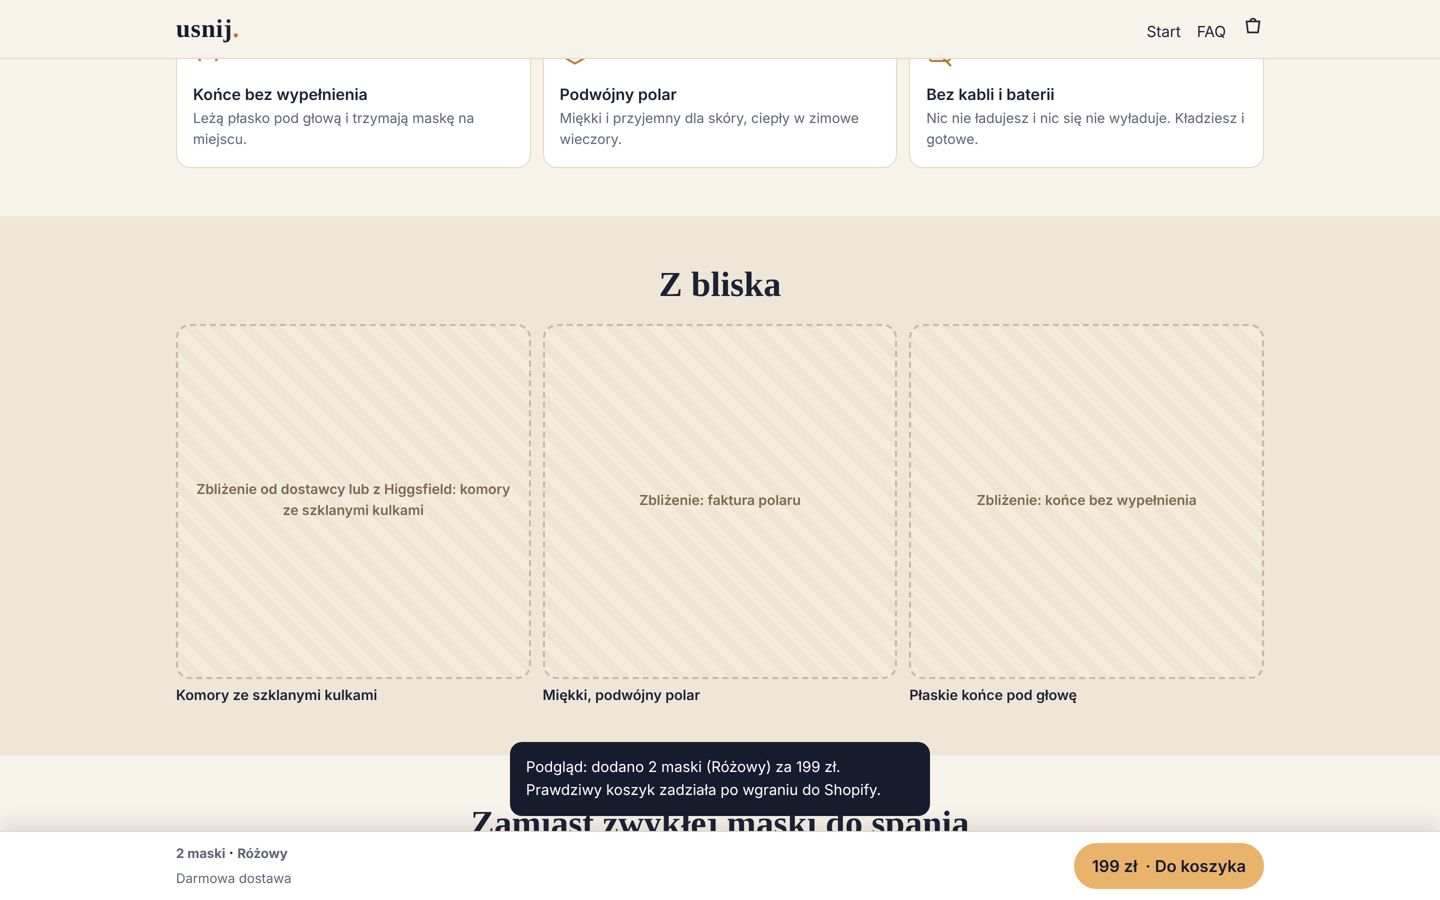
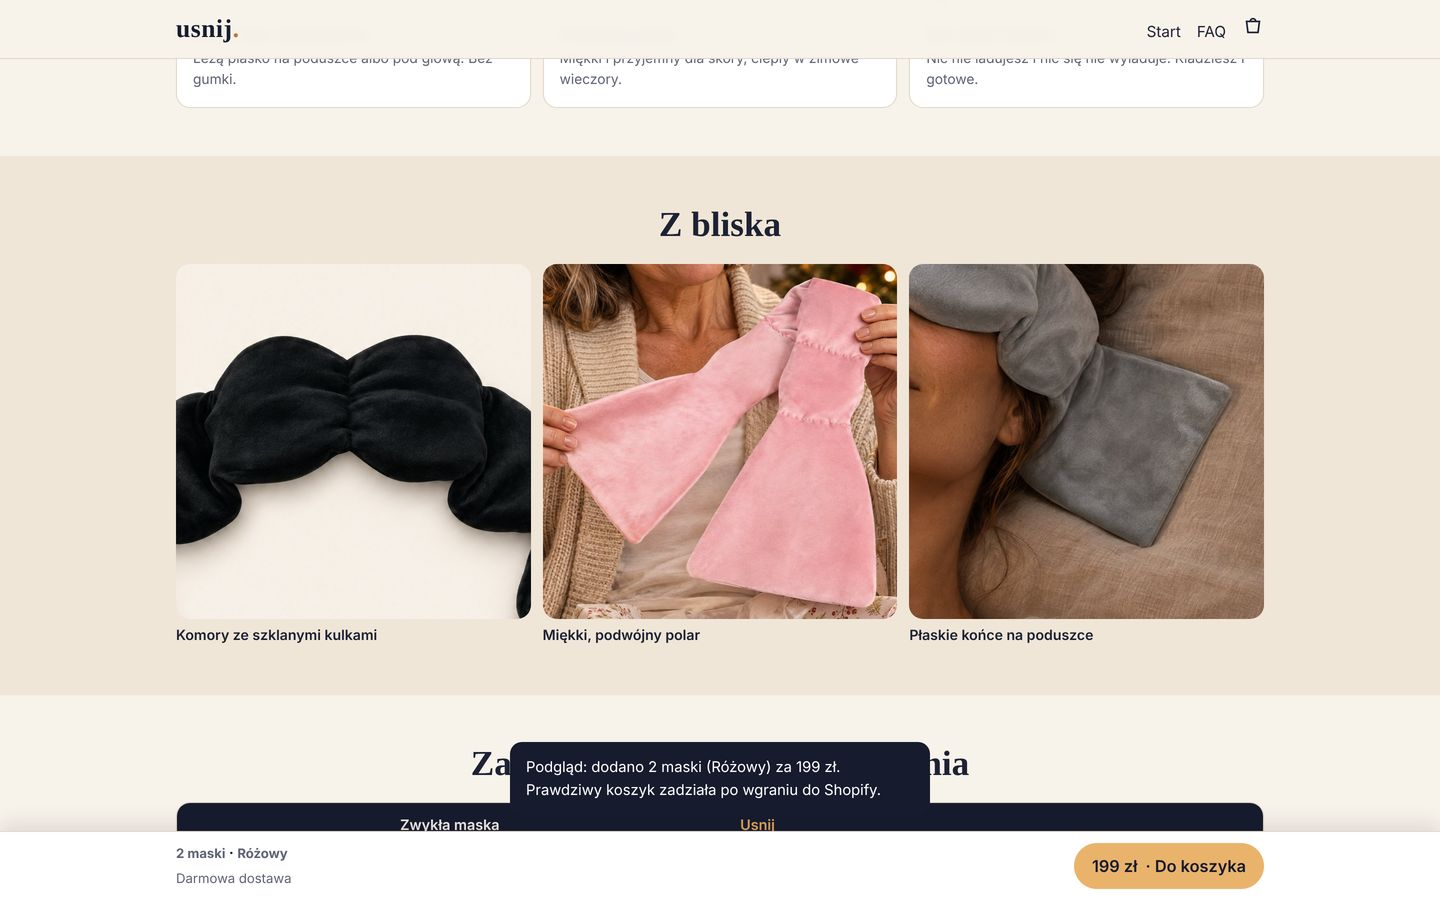
Podgląd Usnij ze zdjęciami dostawcy i z Higgsfield, poprawione marginesy
Claude-Session: https://claude.ai/code/session_015pvefb4PoZBYha924Rvz6N

diff --git a/sklep/podglad/produkt.html b/sklep/podglad/produkt.html
@@ -18,13 +18,13 @@
 <!-- 1. Galeria i zakup -->
 <div class="wrap pdp">
   <div>
-    <div class="gal-main"><img src="img/dostawca-tymczasowe.jpg" alt="Obciążeniowa maska na oczy, zdjęcie od dostawcy"><span class="tag">Zdjęcie od dostawcy, tymczasowe (zielony, nie sprzedajemy tego koloru)</span></div>
+    <div class="gal-main"><img data-color-img src="img/packshot-szara.jpg" alt="Obciążeniowa maska na oczy Usnij"></div>
     <div class="thumbs">
-      <button class="thumb" aria-current="true"><img src="img/dostawca-tymczasowe.jpg" alt=""><template><img src="img/dostawca-tymczasowe.jpg" alt="Maska od dostawcy"><span class="tag">Zdjęcie od dostawcy, tymczasowe</span></template></button>
-      <button class="thumb">Czarny<template><div class="ph">Zdjęcie od dostawcy: kolor czarny</div></template></button>
-      <button class="thumb">Szary<template><div class="ph">Zdjęcie od dostawcy: kolor szary</div></template></button>
-      <button class="thumb">Różowy<template><div class="ph">Zdjęcie od dostawcy: kolor różowy</div></template></button>
-      <button class="thumb">W użyciu<template><div class="ph">Zdjęcie z Higgsfield: maska na oczach w łóżku, produkt 1:1</div></template></button>
+      <button class="thumb" data-kolor-thumb="Czarny"><img src="img/packshot-czarna.jpg" alt="Kolor czarny"><template><img src="img/packshot-czarna.jpg" alt="Maska Usnij, kolor czarny"></template></button>
+      <button class="thumb" data-kolor-thumb="Szary" aria-current="true"><img src="img/packshot-szara.jpg" alt="Kolor szary"><template><img src="img/packshot-szara.jpg" alt="Maska Usnij, kolor szary"></template></button>
+      <button class="thumb" data-kolor-thumb="Różowy"><img src="img/packshot-rozowa.jpg" alt="Kolor różowy"><template><img src="img/packshot-rozowa.jpg" alt="Maska Usnij, kolor różowy"></template></button>
+      <button class="thumb"><img src="img/hero-szara-lozko.jpg" alt="Maska w użyciu" loading="lazy"><template><img src="img/hero-szara-lozko.jpg" alt="Szara maska Usnij na oczach w łóżku"></template></button>
+      <button class="thumb"><img src="img/rozowa-lozko.jpg" alt="Różowa maska w użyciu" loading="lazy"><template><img src="img/rozowa-lozko.jpg" alt="Różowa maska Usnij na oczach w łóżku"></template></button>
     </div>
   </div>
 
@@ -58,7 +58,7 @@
 
     <!-- 2. Zakładki -->
     <div style="margin-top:18px">
-      <details open><summary>Opis</summary><div class="in"><p>Usnij to obciążeniowa maska na oczy wypełniona szklanymi kulkami. Kulki są zamknięte w 4 komorach, więc ciężar rozkłada się równo na oczach i czole. Końce bez wypełnienia wsuwasz pod głowę i maska zostaje na miejscu bez gumki.</p><p>Miękki, podwójny polar, przyjemny dla skóry. Pasuje do snu, drzemki i podróży. To nie jest wyrób medyczny.</p></div></details>
+      <details open><summary>Opis</summary><div class="in"><p>Usnij to obciążeniowa maska na oczy wypełniona szklanymi kulkami. Kulki są zamknięte w 4 komorach, więc ciężar rozkłada się równo na oczach i czole. Końce bez wypełnienia leżą płasko na poduszce albo pod głową i pomagają utrzymać maskę na miejscu, bez gumki.</p><p>Miękki, podwójny polar, przyjemny dla skóry. Pasuje do snu, drzemki i podróży. To nie jest wyrób medyczny.</p></div></details>
       <details><summary>Co jest w zestawie</summary><div class="in"><ul><li>1 maska: 1 × obciążeniowa maska na oczy</li><li>2 maski: 2 × obciążeniowa maska na oczy (w wybranym kolorze)</li></ul></div></details>
       <details><summary>Wymiary</summary><div class="in"><ul><li>Waga maski: 240 g (wg dostawcy)</li><li>Waga paczki: 362 g (wg dostawcy)</li><li>Długość i szerokość: [do potwierdzenia u dostawcy]</li><li>Materiał: polar, wypełnienie: szklane kulki</li></ul></div></details>
       <details><summary>Dostawa i zwroty</summary><div class="in"><ul><li>Dostawa 8–18 dni: 1–3 dni przygotowania + 7–15 dni transportu, z numerem śledzenia</li><li>Darmowa od 199 zł, poniżej 12,99 zł</li><li>Cena końcowa, bez cła i dopłat przy odbiorze</li><li>30 dni na zwrot bez podawania przyczyny</li><li>Paczka nie dotarła w 25 dni od nadania: nowa albo zwrot pieniędzy</li></ul></div></details>
@@ -68,13 +68,13 @@
 
 <!-- 3. Najważniejsza korzyść -->
 <section class="dark"><div class="wrap benefit">
-  <div class="ph sq">Miejsce na zdjęcie lub krótkie wideo z Higgsfield: maska na oczach, ciemna sypialnia, ciepłe światło lampki (produkt 1:1)</div>
+  <img src="img/rozowa-lozko.jpg" alt="Różowa maska Usnij na oczach, ciepłe światło lampki w sypialni" style="border-radius:14px" loading="lazy">
   <div>
     <h2>Ciężar, który uspokaja, zamiast uciskać</h2>
     <ul class="ticks">
       <li><span><b>Ciemność.</b> Maska przykrywa oczy i czoło, więc światło z lampki czy ekranu nie przeszkadza.</span></li>
       <li><span><b>Równy, delikatny ciężar.</b> Szklane kulki w 4 komorach leżą na powiekach płasko, bez jednego punktu nacisku.</span></li>
-      <li><span><b>Zostaje na miejscu.</b> Końce bez wypełnienia wsuwasz pod głowę. Bez gumki, która ciągnie za włosy.</span></li>
+      <li><span><b>Bez gumki.</b> Płaskie końce bez wypełnienia leżą na poduszce albo pod głową. Nic nie ciągnie za włosy.</span></li>
     </ul>
   </div>
 </div></section>
@@ -86,7 +86,7 @@
     <div class="feat"><svg viewBox="0 0 24 24" fill="none" stroke="currentColor" stroke-width="1.6"><circle cx="7" cy="9" r="2.2"/><circle cx="12" cy="7" r="2.2"/><circle cx="17" cy="9" r="2.2"/><circle cx="9.5" cy="14" r="2.2"/><circle cx="14.5" cy="14" r="2.2"/></svg><h3>Szklane kulki</h3><p>Wypełnienie ze szklanych kulek daje równy, przyjemny ciężar.</p></div>
     <div class="feat"><svg viewBox="0 0 24 24" fill="none" stroke="currentColor" stroke-width="1.6"><rect x="2" y="8" width="20" height="8" rx="4"/><path d="M7 8v8M12 8v8M17 8v8"/></svg><h3>4 komory</h3><p>Kulki się nie przesypują w jeden róg. Ciężar zostaje tam, gdzie trzeba.</p></div>
     <div class="feat"><svg viewBox="0 0 24 24" fill="none" stroke="currentColor" stroke-width="1.6"><path d="M4 11c2-4.5 14-4.5 16 0v2c-2 3.5-14 3.5-16 0z"/><path d="M12 7v10"/></svg><h3>Oczy i czoło</h3><p>Maska przykrywa całą okolicę oczu i czoło, a nie tylko powieki.</p></div>
-    <div class="feat"><svg viewBox="0 0 24 24" fill="none" stroke="currentColor" stroke-width="1.6"><path d="M3 12h18"/><path d="M6 8l-3 4 3 4M18 8l3 4-3 4"/></svg><h3>Końce bez wypełnienia</h3><p>Leżą płasko pod głową i trzymają maskę na miejscu.</p></div>
+    <div class="feat"><svg viewBox="0 0 24 24" fill="none" stroke="currentColor" stroke-width="1.6"><path d="M3 12h18"/><path d="M6 8l-3 4 3 4M18 8l3 4-3 4"/></svg><h3>Końce bez wypełnienia</h3><p>Leżą płasko na poduszce albo pod głową. Bez gumki.</p></div>
     <div class="feat"><svg viewBox="0 0 24 24" fill="none" stroke="currentColor" stroke-width="1.6"><path d="M12 3l9 5-9 5-9-5z"/><path d="M3 13l9 5 9-5"/></svg><h3>Podwójny polar</h3><p>Miękki i przyjemny dla skóry, ciepły w zimowe wieczory.</p></div>
     <div class="feat"><svg viewBox="0 0 24 24" fill="none" stroke="currentColor" stroke-width="1.6"><rect x="3" y="8" width="16" height="8" rx="2"/><path d="M21 11v2"/><path d="M4 4l16 16"/></svg><h3>Bez kabli i baterii</h3><p>Nic nie ładujesz i nic się nie wyładuje. Kładziesz i gotowe.</p></div>
   </div>
@@ -96,9 +96,9 @@
 <section class="alt"><div class="wrap">
   <h2 class="center">Z bliska</h2>
   <div class="closeups">
-    <figure><div class="ph sq">Zbliżenie od dostawcy lub z Higgsfield: komory ze szklanymi kulkami</div><figcaption>Komory ze szklanymi kulkami</figcaption></figure>
-    <figure><div class="ph sq">Zbliżenie: faktura polaru</div><figcaption>Miękki, podwójny polar</figcaption></figure>
-    <figure><div class="ph sq">Zbliżenie: końce bez wypełnienia</div><figcaption>Płaskie końce pod głowę</figcaption></figure>
+    <figure><img src="img/zblizenie-komory.jpg" alt="Zbliżenie komór ze szklanymi kulkami" style="border-radius:14px;aspect-ratio:1/1;object-fit:cover" loading="lazy"><figcaption>Komory ze szklanymi kulkami</figcaption></figure>
+    <figure><img src="img/zblizenie-polar.jpg" alt="Zbliżenie miękkiego polaru maski" style="border-radius:14px;aspect-ratio:1/1;object-fit:cover" loading="lazy"><figcaption>Miękki, podwójny polar</figcaption></figure>
+    <figure><img src="img/zblizenie-konce.jpg" alt="Płaski koniec maski na poduszce" style="border-radius:14px;aspect-ratio:1/1;object-fit:cover" loading="lazy"><figcaption>Płaskie końce na poduszce</figcaption></figure>
   </div>
 </div></section>
 
@@ -110,13 +110,13 @@
     <tr><td>Wypełnienie</td><td>pianka lub sama tkanina</td><td>szklane kulki w 4 komorach</td></tr>
     <tr><td>Ciężar</td><td>kilkanaście gramów</td><td>240 g (wg dostawcy)</td></tr>
     <tr><td>Co przykrywa</td><td>same oczy</td><td>oczy i czoło</td></tr>
-    <tr><td>Mocowanie</td><td>gumka za głową</td><td>płaskie końce pod głowę</td></tr>
+    <tr><td>Mocowanie</td><td>gumka za głową</td><td>płaskie końce na poduszce, bez gumki</td></tr>
   </table>
 </div></section>
 
 <!-- 6b. Prezent -->
 <section class="dark"><div class="wrap gift">
-  <div class="ph sq">Miejsce na zdjęcie z Higgsfield: dwie maski Usnij w prezencie</div>
+  <img src="img/prezent-rozowa.jpg" alt="Różowa maska Usnij wyjęta z prezentu przy choince" style="border-radius:14px" loading="lazy">
   <div>
     <h2>Dwie maski: dla Ciebie i na prezent</h2>
     <p class="lead">Dla mamy, żony, przyjaciółki, dla każdego, kto mówi „znowu nie spałam”.</p>
@@ -131,7 +131,7 @@
   <h2 class="center">Pytania i odpowiedzi</h2>
   <details><summary>Ile trwa dostawa?</summary><div class="in">8 do 18 dni od zamówienia (1–3 dni przygotowania i 7–15 dni transportu), z numerem śledzenia. Jeśli paczka nie dotrze w ciągu 25 dni od nadania, wysyłamy nową albo oddajemy pieniądze.</div></details>
   <details><summary>Czy maska nie będzie za ciężka?</summary><div class="in">Ciężar rozkłada się na 4 komory, więc nie uciska jednego punktu. Jeśli Ci nie posłuży, masz 30 dni na zwrot.</div></details>
-  <details><summary>Czy zsunie się w nocy?</summary><div class="in">Końce bez wypełnienia wsuwasz pod głowę. Leżą płasko i trzymają maskę na miejscu.</div></details>
+  <details><summary>Czy zsunie się w nocy?</summary><div class="in">Końce bez wypełnienia leżą płasko na poduszce albo pod głową i pomagają utrzymać maskę na miejscu.</div></details>
   <details><summary>Czy to leczy bezsenność?</summary><div class="in">Nie, to nie jest wyrób medyczny. Daje ciemność i delikatny ciężar, co wielu osobom pomaga się wyciszyć.</div></details>
   <details><summary>Jak zapłacę?</summary><div class="in">BLIK, kartą albo szybkim przelewem. Cena jest końcowa, bez dopłat przy odbiorze.</div></details>
 </div></section>

diff --git a/sklep/podglad/index.html b/sklep/podglad/index.html
@@ -20,7 +20,7 @@
 <!-- 2. Hero -->
 <section class="hero"><div class="wrap">
   <div class="hero-media">
-    <div class="ph" style="aspect-ratio:auto;height:100%;border-radius:0;border:0">Miejsce na zdjęcie lub zapętlone wideo z Higgsfield: kobieta w sypialni przy lampce, maska Usnij na oczach (produkt 1:1 ze zdjęć dostawcy)</div>
+    <img src="img/hero-szara-lozko.jpg" alt="Kobieta odpoczywa w łóżku z szarą obciążeniową maską Usnij na oczach, ciepłe światło lampki" fetchpriority="high">
   </div>
   <div>
     <p class="small" style="color:#e2a355;font-weight:700;letter-spacing:.5px;text-transform:uppercase;margin-bottom:.6em">Obciążeniowa maska na oczy</p>
@@ -43,10 +43,10 @@
 <section><div class="wrap">
   <h2 class="center">Maska Usnij</h2>
   <div class="pcard">
-    <a class="media" href="produkt.html"><img src="img/dostawca-tymczasowe.jpg" alt="Obciążeniowa maska na oczy ze szklanymi kulkami, zdjęcie od dostawcy"><span class="tag">Zdjęcie od dostawcy, tymczasowe (kolor zielony). Docelowo zdjęcia w kolorach: czarny, szary, różowy</span></a>
+    <a class="media" href="produkt.html"><img data-color-img src="img/packshot-szara.jpg" alt="Obciążeniowa maska na oczy Usnij"></a>
     <div>
       <h3 style="font-size:1.35rem">Obciążeniowa maska na oczy do spania</h3>
-      <p class="small">Szklane kulki w 4 komorach, miękki podwójny polar, końce bez wypełnienia wsuwasz pod głowę.</p>
+      <p class="small">Szklane kulki w 4 komorach, miękki podwójny polar, płaskie końce bez wypełnienia.</p>
       <div class="label">Kolor: <span data-color-name></span></div>
       <div class="swatches">
         <button class="sw" data-kolor="Czarny"><i style="background:#1d1d22"></i>Czarny</button>
@@ -65,14 +65,14 @@
   <p class="lead center">Trzy kroki, zero ładowania i kabli.</p>
   <div class="steps">
     <div class="step"><div class="num">1</div><h3>Połóż maskę na oczach</h3><p class="small">Szklane kulki w 4 komorach przykrywają oczy i czoło. Ciężar rozkłada się równo.</p></div>
-    <div class="step"><div class="num">2</div><h3>Wsuń końce pod głowę</h3><p class="small">Końce są bez wypełnienia, więc leżą płasko i trzymają maskę na miejscu, bez gumki za uszami.</p></div>
+    <div class="step"><div class="num">2</div><h3>Ułóż końce na poduszce</h3><p class="small">Końce są bez wypełnienia, więc leżą płasko na poduszce albo pod głową. Bez gumki za uszami.</p></div>
     <div class="step"><div class="num">3</div><h3>Zgaś światło</h3><p class="small">Ciemno, cicho, spokojnie. Zostajesz tylko Ty i delikatny ciężar na powiekach.</p></div>
   </div>
 </div></section>
 
 <!-- 6a. Prezent -->
 <section class="dark"><div class="wrap gift">
-  <div class="ph sq">Miejsce na zdjęcie z Higgsfield: dwie maski Usnij (różowa i szara) przy choince, papier prezentowy</div>
+  <img src="img/prezent-rozowa.jpg" alt="Kobieta przy choince trzyma różową maskę Usnij wyjętą z prezentu" style="border-radius:14px" loading="lazy">
   <div>
     <h2>Prezent dla kogoś, kto mówi „znowu nie spałam”</h2>
     <p class="lead">Dla mamy, żony, przyjaciółki. Albo jedna dla Ciebie, druga na prezent.</p>
@@ -94,7 +94,7 @@
   <details><summary>Ile trwa dostawa?</summary><div class="in">8 do 18 dni od zamówienia: 1–3 dni przygotowania i 7–15 dni transportu. Wysyłamy z magazynu zagranicznego, a numer śledzenia dostajesz mailem zaraz po nadaniu. Jeśli paczka nie dotrze w ciągu 25 dni od nadania, wysyłamy nową albo oddajemy pieniądze, do wyboru.</div></details>
   <details><summary>Ile kosztuje dostawa?</summary><div class="in">Przy zamówieniu od 199 zł dostawa jest darmowa. Poniżej 199 zł kosztuje 12,99 zł. Cena jest końcowa, bez cła i dopłat przy odbiorze.</div></details>
   <details><summary>Czy maska nie będzie za ciężka?</summary><div class="in">Kulki są w 4 osobnych komorach, więc ciężar rozkłada się równo na oczach i czole, zamiast uciskać jeden punkt. Jeśli Ci nie posłuży, masz 30 dni na zwrot.</div></details>
-  <details><summary>Czy zsunie się w nocy?</summary><div class="in">Końce maski są bez wypełnienia. Wsuwasz je pod głowę i leżą płasko, więc maska zostaje na miejscu bez gumki.</div></details>
+  <details><summary>Czy zsunie się w nocy?</summary><div class="in">Końce maski są bez wypełnienia. Leżą płasko na poduszce albo pod głową i pomagają utrzymać maskę na miejscu, bez gumki.</div></details>
   <details><summary>Czy to leczy bezsenność?</summary><div class="in">Nie. To nie jest wyrób medyczny. Maska daje ciemność i delikatny, równy ciężar na powiekach, co wielu osobom pomaga się wyciszyć.</div></details>
   <details><summary>Jak zwrócić produkt?</summary><div class="in">Masz 30 dni od odbioru na zwrot bez podawania przyczyny (ustawowo 14 dni, wydłużamy dobrowolnie). Napisz do nas z numerem zamówienia, a pieniądze oddamy w ciągu 14 dni od otrzymania paczki.</div></details>
 </div></section>

diff --git a/sklep/podglad/app.js b/sklep/podglad/app.js
@@ -5,6 +5,7 @@ const OFERTA = {
   2: { cena: 199, dostawa: 0, tytul: "2 maski", opis: "99,50 zł za sztukę · oszczędzasz 79 zł" },
 };
 const KOLORY = { Czarny: "#1d1d22", Szary: "#9b9ca3", "Różowy": "#e8b8c4" };
+const ZDJECIA = { Czarny: "img/packshot-czarna.jpg", Szary: "img/packshot-szara.jpg", "Różowy": "img/packshot-rozowa.jpg" };
 
 const zl = (n) => (Number.isInteger(n) ? String(n) : n.toFixed(2).replace(".", ",")) + " zł";
 const state = { kolor: "Szary", zestaw: 1 };
@@ -26,11 +27,18 @@ function render() {
 
 document.addEventListener("click", (e) => {
   const sw = e.target.closest(".sw");
-  if (sw) { state.kolor = sw.dataset.kolor; render(); }
+  if (sw) {
+    state.kolor = sw.dataset.kolor; render();
+    const main = document.querySelector(".gal-main");
+    if (main) main.innerHTML = `<img data-color-img src="${ZDJECIA[state.kolor]}" alt="Maska Usnij, kolor ${state.kolor.toLowerCase()}">`;
+    document.querySelectorAll("[data-color-img]").forEach((img) => (img.src = ZDJECIA[state.kolor]));
+    document.querySelectorAll(".thumb").forEach((t) => t.setAttribute("aria-current", String(t.dataset.kolorThumb === state.kolor)));
+  }
   const set = e.target.closest(".set");
   if (set) { state.zestaw = Number(set.dataset.zestaw); render(); }
   const th = e.target.closest(".thumb");
   if (th) {
+    if (th.dataset.kolorThumb) { state.kolor = th.dataset.kolorThumb; render(); }
     document.querySelectorAll(".thumb").forEach((t) => t.setAttribute("aria-current", String(t === th)));
     const main = document.querySelector(".gal-main");
     if (main) main.innerHTML = th.dataset.html;

diff --git a/sklep/podglad/style.css b/sklep/podglad/style.css
@@ -90,7 +90,7 @@ details .in ul{padding-left:18px;margin:0}
 footer{background:var(--night);color:#c9c6d4;padding:32px 0 90px;font-size:.9rem}
 footer a{display:inline-block;margin:0 14px 8px 0;color:#f3eee6}
 /* ===== Strona produktu ===== */
-.pdp{display:grid;gap:22px;padding:18px 0 34px}
+.pdp{display:grid;gap:22px;padding-top:18px;padding-bottom:34px}
 @media(min-width:900px){.pdp{grid-template-columns:1.1fr .9fr;align-items:start;padding-top:32px}}
 .gal-main{position:relative;border-radius:var(--r);overflow:hidden;aspect-ratio:1/1;background:#f1ece4}
 .gal-main img{width:100%;height:100%;object-fit:cover}

diff --git a/biznes.md b/biznes.md
@@ -87,7 +87,9 @@ Puste pola oznaczone są „—”.
 - Strona produktu (link): — (maska jeszcze nie jest w sklepie; import przez Teemdrop)
 - PODGLĄD SKLEPU USNIJ (12.11.2026): `sklep/podglad/` (index.html, produkt.html, style.css, app.js), zrzuty w `sklep/podglad/zrzuty/`. Test na telefonie (iPhone 13) i komputerze (1440 px): nic nie wychodzi poza ekran, kolory i zestawy działają, ceny 139 zł + 12,99 zł = 151,99 zł oraz 199 zł z darmową dostawą zgodne, przyklejony pasek pojawia się po przewinięciu, brak błędów JS
   - Zrobione: wszystkie sekcje strony głównej i produktu z briefu; konkrety tylko z zasad sklepu w Shopify (dostawa 8–18 dni, zwrot 30 dni, BLIK/karta/przelew, cena końcowa bez cła, nowa paczka lub zwrot po 25 dniach); miejsce na opinie puste
-  - Brakuje: zdjęć od dostawcy w folderze `produkt` (w podglądzie tymczasowo wycięte zdjęcie z zrzutu Teemdrop, kolor zielony); zdjęć z Higgsfield (wycena: gpt_image_2_6 0,25 kredytu/zdjęcie, marketing_studio_image 2 kredyty/zdjęcie; czeka na zgodę); wymiarów maski; danych producenta do GPSR
+  - Zdjęcia (12.11.2026): od dostawcy w `produkt/dostawca-{czarny,szary,rozowy}.jpg`; z Higgsfield (gpt_image_2_6, jakość high, 2k, produkt 1:1 na podstawie zdjęć dostawcy) w `produkt/higgsfield/`: szara maska w łóżku (hero), różowa w łóżku, różowa jako prezent przy choince, czarny packshot. Szary i różowy packshot = zdjęcia dostawcy z kremowym tłem; zbliżenia = kadry z wygenerowanych zdjęć. Zużyte 13 kredytów (test 2 modeli 4,75 + 3 zdjęcia 8,25), saldo 2684,25
+  - Higgsfield: konto osiągnęło dzienny limit generowania w okresie przejściowym (grace period), 7 z 10 zdjęć nie przeszło. Do dogenerowania po resecie limitu: portret z czarną maską, pudełko prezentowe z 2 maskami, prawdziwe makro (komory, polar, końce), szary i różowy packshot w tym samym stylu, opcjonalnie zapętlone wideo do hero
+  - Brakuje jeszcze: wymiarów maski, danych producenta do GPSR, instrukcji podgrzewania (na stronie nie obiecujemy podgrzewania)
   - Następne kroki wg briefu: akceptacja podglądu → motyw NIEOPUBLIKOWANY w Shopify + produkt z wariantami → lista rzeczy do kliknięcia w panelu
   - Uwaga: zasady sklepu (regulamin, zwroty, kontakt) mówią o marce „Otulaj” i termoforze; przy przejściu na Usnij trzeba je zaktualizować
 - Stan sklepu (Shopify, 10.11.2026):
